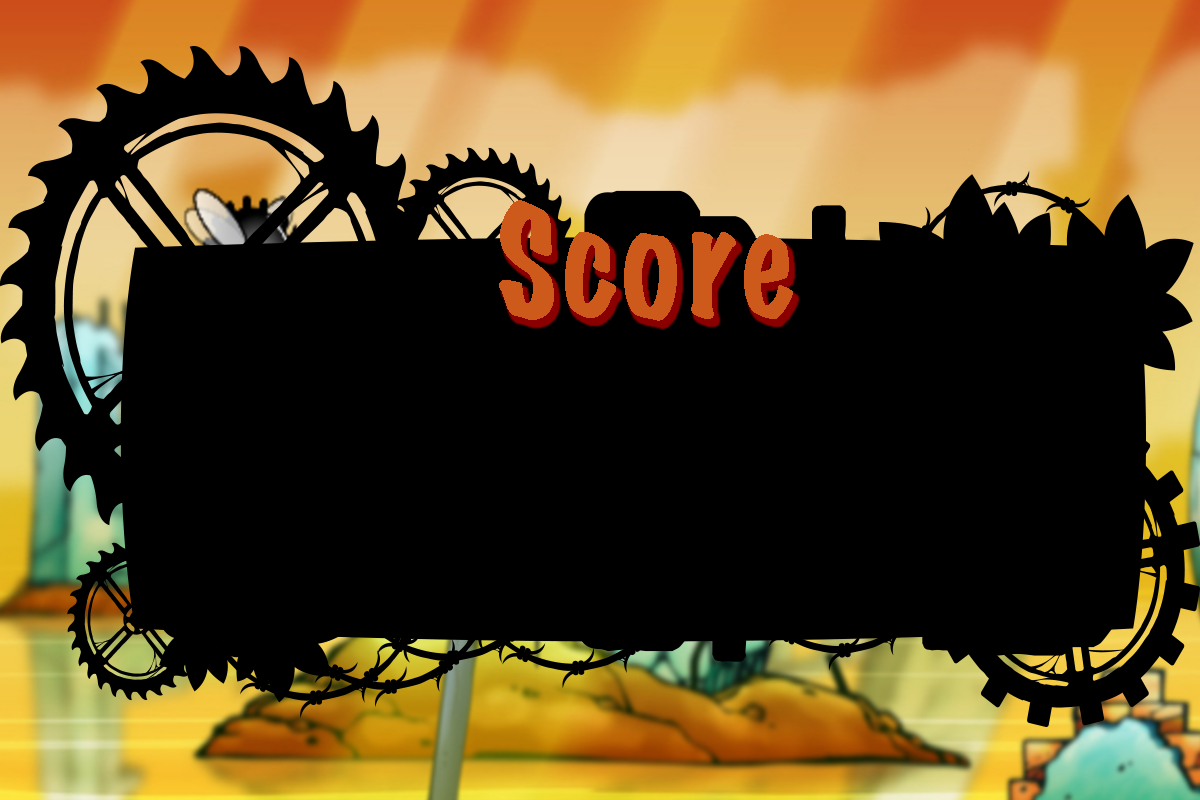
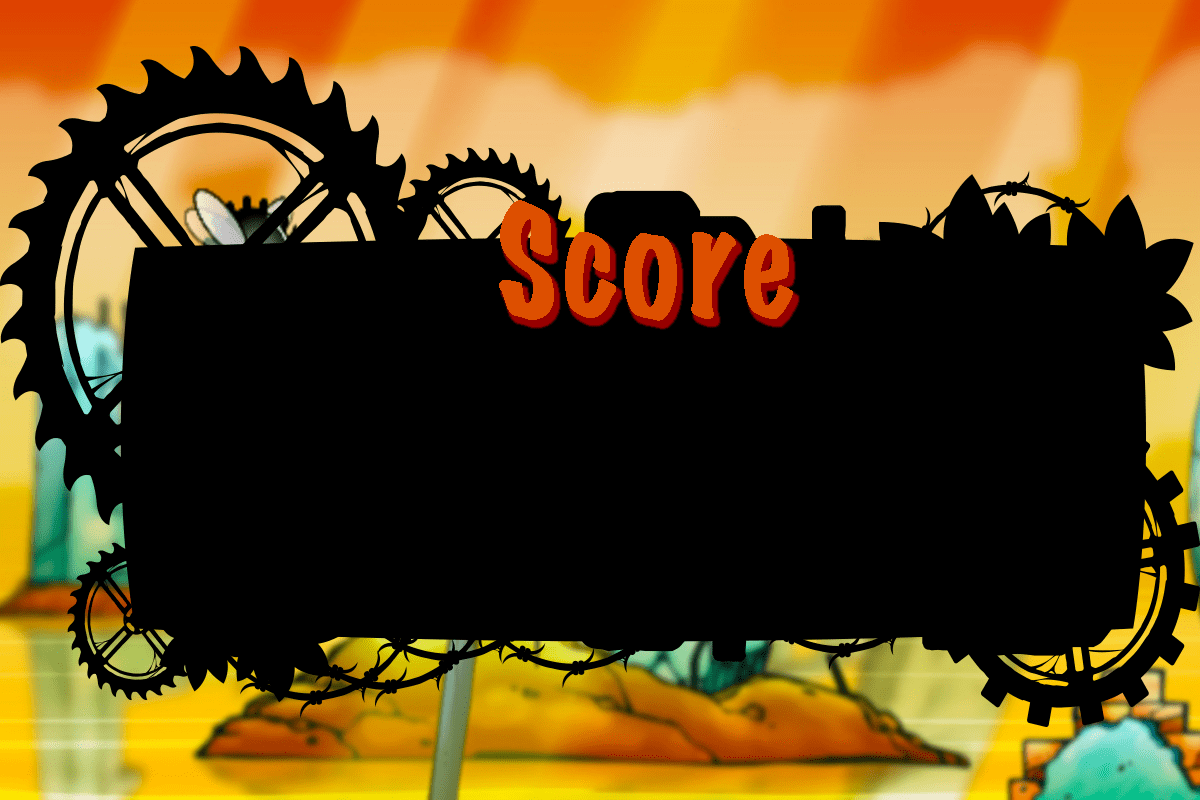
redimension des png

diff --git a/game/background.js b/game/background.js
@@ -3,7 +3,7 @@
 //1280*400
 
 var bg = new Image();
-bg.src = "./game/img/background/bg2.jpg"
+bg.src = "./game/img/background/bg2.png"
 
 var groundImg = new Image();
 groundImg.src = "./game/img/background/front4.png"

diff --git a/game/keyboard.js b/game/keyboard.js
@@ -1,9 +1,7 @@
 "use strict"
 
 // Gestion des touches clavier
-
 var keyState = {};
-
 window.addEventListener('keydown', function (e) {
     keyState[e.keyCode] = true;
 }, true);
